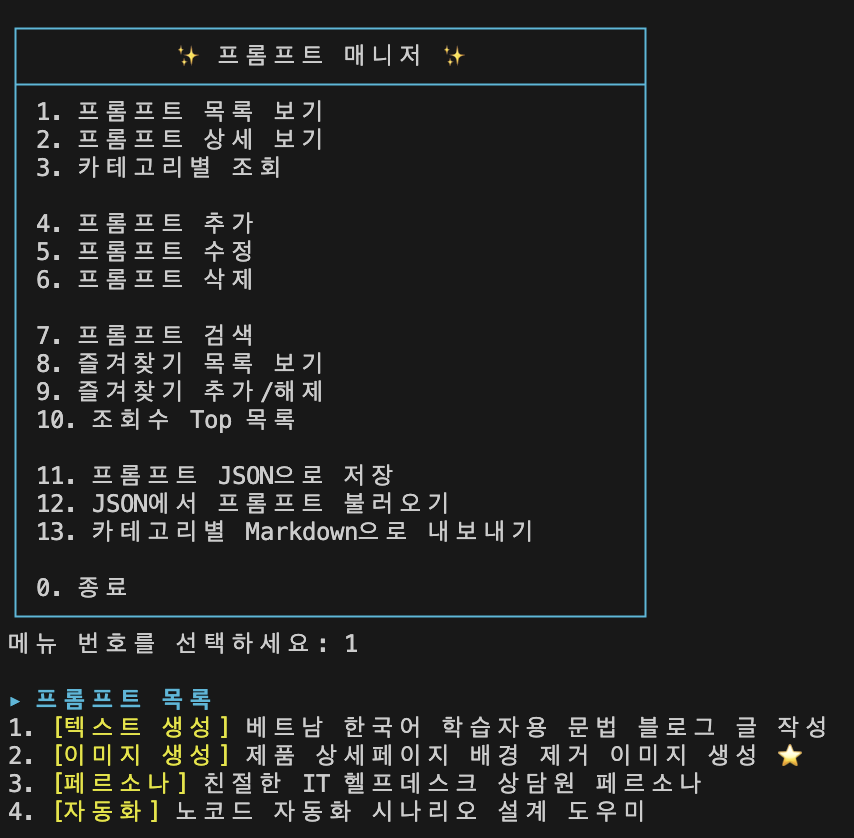
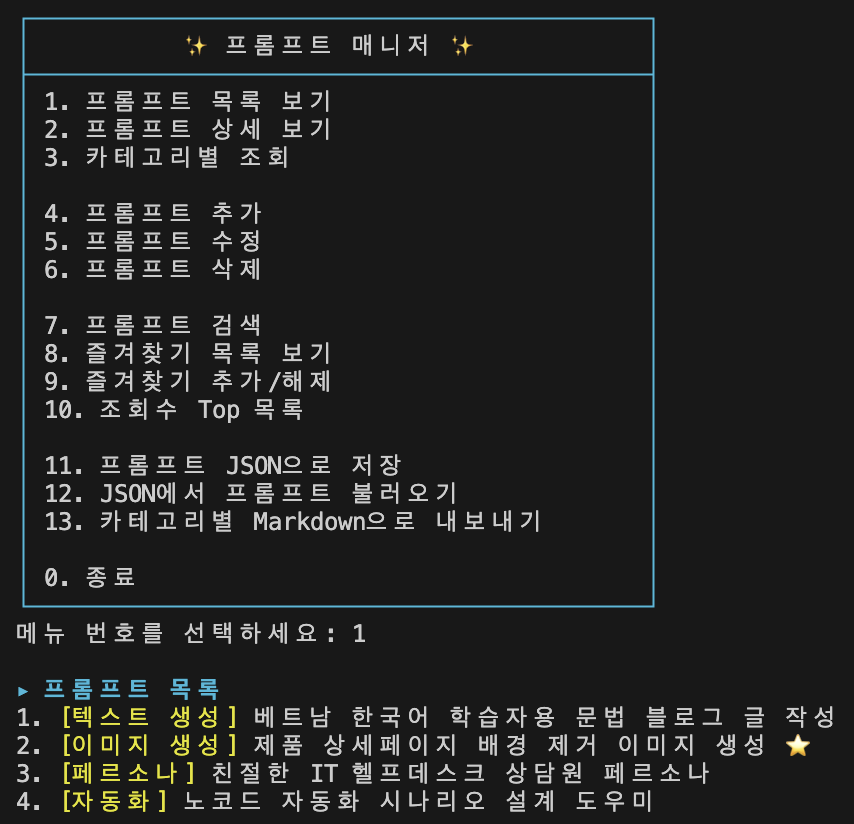
docs: 상세보기/카테고리별조회/삭제/즐겨찾기목록 스크린샷 추가, 최신 git log 그래프로 교체

Changed region(s): [[0.0, 0.0, 0.7916, 0.7888], [0.0, 0.8192, 0.9742, 1.0]]

diff --git a/README.md b/README.md
@@ -88,9 +88,13 @@ python3.12 main.py
 목록을 먼저 보여준 뒤 번호를 입력받습니다. 숫자가 아니거나 범위를 벗어난 번호를 넣으면 안내 메시지를 출력하고 메뉴로 돌아갑니다.
 조회할 때마다 해당 프롬프트의 `views`(조회수)가 1씩 증가하며, 이 값은 10번 메뉴(조회수 Top 목록)에 반영됩니다.
 
+![프롬프트 상세 보기](screenshot/09-detail-view.png)
+
 ### 3. 카테고리별 조회
 
 미리 정의된 카테고리 목록을 보여주고, 번호를 고르거나 이름을 직접 입력받습니다. 출력되는 번호는 전체 목록 기준 번호를 그대로 유지하므로, 여기서 본 번호로 바로 상세 보기를 할 수 있습니다.
+
+![카테고리별 조회](screenshot/10-by-category.png)
 
 ### 4. 프롬프트 추가
 
@@ -108,6 +112,8 @@ python3.12 main.py
 
 삭제할 번호를 입력하면 `'제목'을(를) 정말 삭제할까요? (y/N)` 확인을 거칩니다. `y`를 입력한 경우에만 삭제되고, 그 외의 입력은 취소로 처리합니다.
 
+![프롬프트 삭제 (N 입력 시 취소)](screenshot/11-delete-prompt.png)
+
 ### 7. 프롬프트 검색
 
 검색어를 입력받아 제목과 내용을 모두 검사합니다. 양쪽을 소문자로 변환한 뒤 `in` 연산자로 포함 여부를 확인하므로 대소문자를 구분하지 않습니다. 결과가 없으면 안내 메시지를 출력합니다.
@@ -117,6 +123,8 @@ python3.12 main.py
 ### 8~9. 즐겨찾기
 
 9번으로 프롬프트의 즐겨찾기 상태를 켜고 끌 수 있으며, 8번으로 즐겨찾기된 항목만 모아 볼 수 있습니다. 즐겨찾기된 프롬프트는 모든 목록에서 ⭐로 표시됩니다.
+
+![즐겨찾기 목록](screenshot/12-favorites-list.png)
 
 ### 10. 조회수 Top 목록
 
